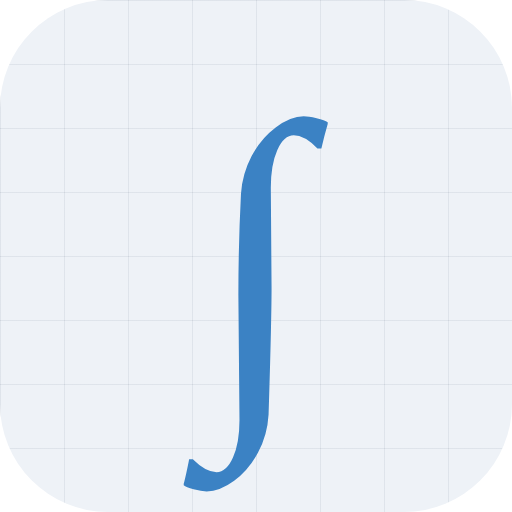
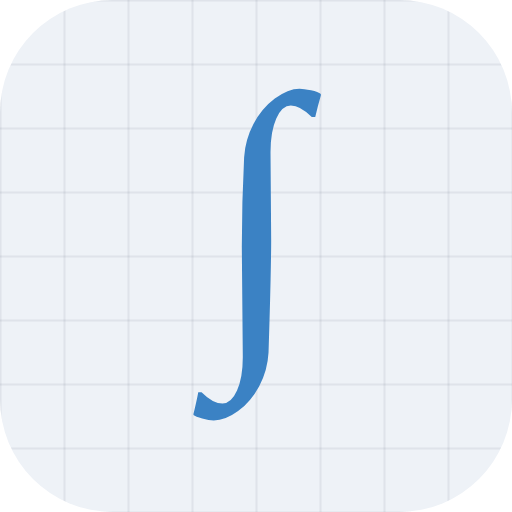
아이콘의 적분 기호를 실제로 가운데 오게 만듦
글자를 가운데 정렬하면 브라우저는 '글자가 차지하는 칸'을 가운데 둔다.
그런데 ∫ 는 그 칸 안에서 획이 한쪽으로 치우쳐 있는 글자라, 칸을 맞춰도
눈에 보이는 획은 왼쪽으로 쏠려 보였다.

make-icons.js 를 새로 두고, 획의 실제 경계(actualBoundingBox)를 재서
그만큼 밀어 그리게 했다. 크기도 글자 크기가 아니라 획의 높이를 기준으로
맞추므로 글꼴이 바뀌어도 아이콘 안에서 차지하는 비율이 그대로다.

만든 뒤에는 칠해진 점의 경계를 다시 세어 중심에서 얼마나 벗어났는지
검산하고, 크기의 0.5% 를 넘으면 실패로 끝낸다. 14개 모두 통과했다.

웹 아이콘 4개(192/512/maskable/apple-touch)와 안드로이드 런처 아이콘
10개(5개 밀도 × 사각·원형)를 함께 다시 만들었다.

Claude-Session: https://claude.ai/code/session_01BGgzw7bBTRoKSe2svGqoNd

Changed region(s): [[0.3438, 0.375, 0.5312, 0.9688], [0.4688, 0.1562, 0.6562, 0.3438]]

diff --git a/make-icons.js b/make-icons.js
@@ -1,0 +1,179 @@
+/*
+ * make-icons.js - 앱·웹 아이콘(∫)을 다시 만든다.
+ *
+ *   실행: node make-icons.js          (Playwright + Chromium 이 있어야 한다)
+ *
+ *   글자를 가운데 정렬하면 브라우저는 '글자가 차지하는 칸'을 가운데 둔다.
+ *   그런데 ∫ 는 그 칸 안에서 획이 한쪽으로 치우쳐 있는 글자라, 칸을 맞춰 봐야
+ *   눈에 보이는 획은 가운데로 오지 않는다. 그래서 여기서는 획의 실제 경계를
+ *   재서(actualBoundingBox) 그만큼 밀어 준다. 크기도 획의 높이를 기준으로
+ *   맞추므로 글꼴이 바뀌어도 아이콘 안에서 차지하는 비율이 그대로다.
+ */
+var fs = require('fs');
+var path = require('path');
+
+var ROOT = __dirname;
+var MIPMAP = path.join(ROOT, 'android/app/src/main/res');
+
+var BG = '#eef2f7';
+var GRID = 'rgba(23,42,69,.07)';
+var INK = '#3b82c4';
+var FONT = '"Times New Roman", Georgia, serif';
+
+// 만들 것: [파일, 크기, 모양, 획이 차지할 높이 비율]
+//   maskable 은 런처가 제멋대로 잘라내므로 안전 영역(가운데 80%) 안에 들어가게 작게 그린다.
+var JOBS = [
+  ['icons/icon-192.png', 192, 'rounded', 0.66],
+  ['icons/icon-512.png', 512, 'rounded', 0.66],
+  ['icons/maskable-512.png', 512, 'square', 0.50],
+  ['icons/apple-touch-icon.png', 180, 'rounded', 0.66]
+];
+
+[['mdpi', 48], ['hdpi', 72], ['xhdpi', 96], ['xxhdpi', 144], ['xxxhdpi', 192]]
+  .forEach(function (d) {
+    JOBS.push(['android/app/src/main/res/mipmap-' + d[0] + '/ic_launcher.png', d[1], 'rounded', 0.66]);
+    JOBS.push(['android/app/src/main/res/mipmap-' + d[0] + '/ic_launcher_round.png', d[1], 'circle', 0.62]);
+  });
+
+// 브라우저 안에서 도는 그리기 함수. 결과는 data URL 로 돌려준다.
+function drawInPage(job) {
+  var S = job.size, shape = job.shape, inkFrac = job.inkFrac;
+  var BG = job.BG, GRID = job.GRID, INK = job.INK, FONT = job.FONT;
+  var GLYPH = '∫';
+
+  var cv = document.createElement('canvas');
+  cv.width = S; cv.height = S;
+  var ctx = cv.getContext('2d');
+
+  // --- 바탕 -------------------------------------------------------
+  ctx.save();
+  ctx.beginPath();
+  if (shape === 'circle') {
+    ctx.arc(S / 2, S / 2, S / 2, 0, Math.PI * 2);
+  } else if (shape === 'rounded') {
+    var r = S * 0.22;
+    ctx.moveTo(r, 0);
+    ctx.arcTo(S, 0, S, S, r);
+    ctx.arcTo(S, S, 0, S, r);
+    ctx.arcTo(0, S, 0, 0, r);
+    ctx.arcTo(0, 0, S, 0, r);
+    ctx.closePath();
+  } else {
+    ctx.rect(0, 0, S, S);
+  }
+  ctx.clip();
+
+  ctx.fillStyle = BG;
+  ctx.fillRect(0, 0, S, S);
+
+  // 사이트와 같은 모눈 바탕
+  var g = S / 8;
+  ctx.strokeStyle = GRID;
+  ctx.lineWidth = Math.max(1, S / 256);
+  for (var k = -4; k <= 4; k++) {
+    var p = Math.round(S / 2 + k * g) + 0.5;
+    ctx.beginPath(); ctx.moveTo(p, 0); ctx.lineTo(p, S); ctx.stroke();
+    ctx.beginPath(); ctx.moveTo(0, p); ctx.lineTo(S, p); ctx.stroke();
+  }
+
+  // --- 글자 -------------------------------------------------------
+  ctx.textAlign = 'center';
+  ctx.textBaseline = 'middle';
+
+  // 1차: 아무 크기로 재서 획의 실제 높이를 알아낸다
+  var F0 = S;
+  ctx.font = F0 + 'px ' + FONT;
+  var m0 = ctx.measureText(GLYPH);
+  var inkH0 = m0.actualBoundingBoxAscent + m0.actualBoundingBoxDescent;
+
+  // 2차: 획 높이가 목표 비율이 되도록 글자 크기를 맞춘다
+  var F = F0 * (inkFrac * S) / inkH0;
+  ctx.font = F + 'px ' + FONT;
+  var m = ctx.measureText(GLYPH);
+
+  // textAlign/textBaseline 이 center/middle 이므로 그리는 자리를 원점으로 보면
+  // 획은 좌 -actualBoundingBoxLeft ~ 우 +actualBoundingBoxRight 에 걸쳐 있다.
+  // 그 한가운데가 아이콘 한가운데로 오도록 그리는 자리를 옮긴다.
+  var inkCx = (m.actualBoundingBoxRight - m.actualBoundingBoxLeft) / 2;
+  var inkCy = (m.actualBoundingBoxDescent - m.actualBoundingBoxAscent) / 2;
+
+  ctx.fillStyle = INK;
+  ctx.fillText(GLYPH, S / 2 - inkCx, S / 2 - inkCy);
+  ctx.restore();
+
+  // --- 검산: 실제로 칠해진 점의 경계를 세어 가운데인지 확인한다 ----
+  var d = ctx.getImageData(0, 0, S, S).data;
+  var x0 = S, x1 = -1, y0 = S, y1 = -1;
+  for (var y = 0; y < S; y++) {
+    for (var x = 0; x < S; x++) {
+      var i = (y * S + x) * 4;
+      // 바탕(연회색)과 획(파랑)을 파란 기운으로 가른다
+      if (d[i + 3] > 40 && d[i + 2] - d[i] > 40) {
+        if (x < x0) x0 = x; if (x > x1) x1 = x;
+        if (y < y0) y0 = y; if (y > y1) y1 = y;
+      }
+    }
+  }
+  return {
+    url: cv.toDataURL('image/png'),
+    offX: +((x0 + x1) / 2 - S / 2).toFixed(2),   // 0 에 가까울수록 가운데
+    offY: +((y0 + y1) / 2 - S / 2).toFixed(2),
+    inkH: y1 - y0 + 1,
+    inkW: x1 - x0 + 1
+  };
+}
+
+(function () {
+  var chromium;
+  try {
+    chromium = require('playwright').chromium;
+  } catch (e) {
+    console.error('Playwright 가 필요합니다: npm i -D playwright');
+    process.exit(1);
+  }
+
+  chromium.launch({ executablePath: process.env.CHROME_PATH || undefined })
+    .then(function (browser) {
+      return browser.newPage().then(function (page) {
+        return page.setContent('<!doctype html><meta charset=utf-8><body>')
+          .then(function () {
+            var chain = Promise.resolve();
+            var bad = 0;
+
+            JOBS.forEach(function (j) {
+              chain = chain.then(function () {
+                return page.evaluate(drawInPage, {
+                  size: j[1], shape: j[2], inkFrac: j[3],
+                  BG: BG, GRID: GRID, INK: INK, FONT: FONT
+                });
+              }).then(function (res) {
+                var out = path.join(ROOT, j[0]);
+                fs.mkdirSync(path.dirname(out), { recursive: true });
+                fs.writeFileSync(out, Buffer.from(res.url.split(',')[1], 'base64'));
+
+                // 획 끝이 가늘게 사라지는 글자라 경계를 재는 데 한두 점의 오차가 남는다.
+                // 크기의 0.5% 안쪽이면 눈으로는 구분되지 않는다.
+                var tol = Math.max(1, j[1] * 0.005);
+                var ok = Math.abs(res.offX) <= tol && Math.abs(res.offY) <= tol;
+                if (!ok) bad++;
+                console.log(
+                  (ok ? '  ' : '!!') + ' ' + j[0] +
+                  '  ' + j[1] + 'px  획 ' + res.inkW + '×' + res.inkH +
+                  '  중심에서 ' + res.offX + ', ' + res.offY);
+              });
+            });
+
+            return chain.then(function () {
+              return browser.close().then(function () {
+                if (bad) {
+                  console.error('가운데에서 벗어난 아이콘이 ' + bad + '개 있습니다.');
+                  process.exit(1);
+                }
+                console.log('아이콘 ' + JOBS.length + '개 생성 완료');
+              });
+            });
+          });
+      });
+    })
+    .catch(function (e) { console.error(e); process.exit(1); });
+})();

diff --git a/README.md b/README.md
@@ -212,6 +212,7 @@ problems.js     생성된 문제 은행 898문항 — 직접 고치지 말 것
 app.js          일일 출제, 스트릭, 아카이브, 통계, 입력 처리
 verify.js       배포된 문제 은행 재검증 (node verify.js)
 build-sw.js     서비스 워커 생성기 (node build-sw.js) — sw.js 는 커밋하지 않는다
+make-icons.js   아이콘 생성기 (node make-icons.js, Playwright 필요) — 웹·안드로이드 14개
 manifest.webmanifest / icons/   설치용 메타데이터와 아이콘
 .github/workflows/deploy.yml    검증 후 Pages 배포
 grade-test.js   채점 엔진 회귀 테스트 (node grade-test.js)
